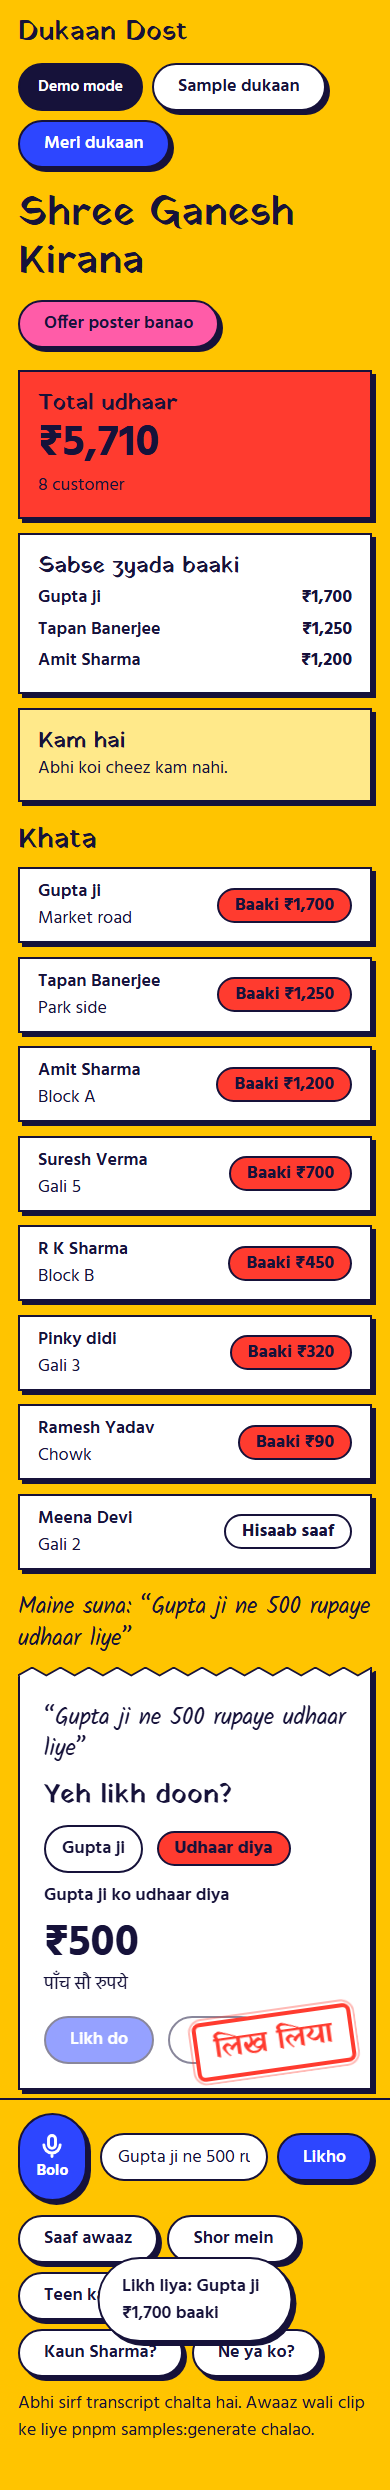
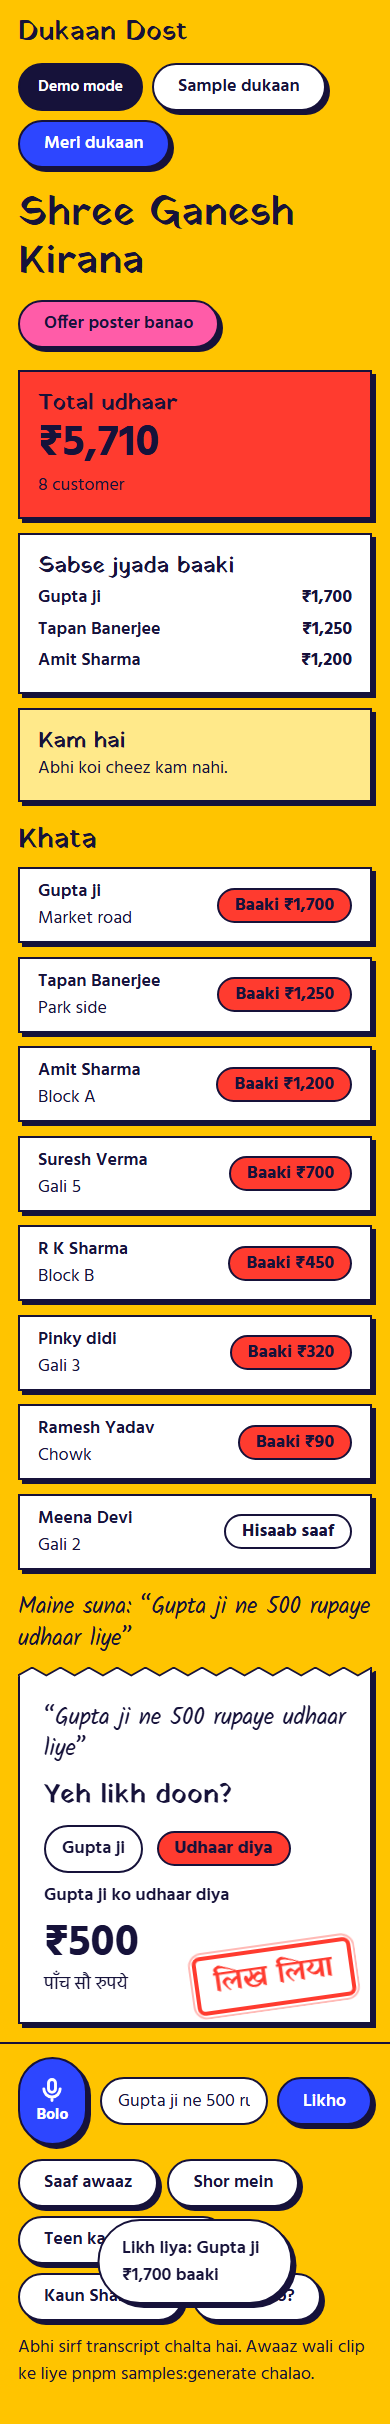
fix: parchi action narrowing

diff --git a/src/components/Parchi.tsx b/src/components/Parchi.tsx
@@ -305,10 +305,10 @@ export function Parchi({ intent, index, token, sourceText, source, preview, onWr
 
             {!preview && phase !== "stamped" ? (
               <div className="mt-4 flex flex-wrap gap-3">
-                <button type="button" className="btn btn-primary" onClick={likhDo} disabled={!ready || phase === "writing" || phase === "stamped"} data-testid="likh-do">
+                <button type="button" className="btn btn-primary" onClick={likhDo} disabled={!ready || phase === "writing"} data-testid="likh-do">
                   {phase === "second" ? `Pakka ${formatINR((amount ?? 0) * 100)}?` : "Likh do"}
                 </button>
-                <button type="button" className="btn" onClick={() => (editing ? setEditing(false) : startEdit())} disabled={phase === "writing" || phase === "stamped"}>
+                <button type="button" className="btn" onClick={() => (editing ? setEditing(false) : startEdit())} disabled={phase === "writing"}>
                   {editing ? "Theek hai" : "Badlo"}
                 </button>
               </div>
